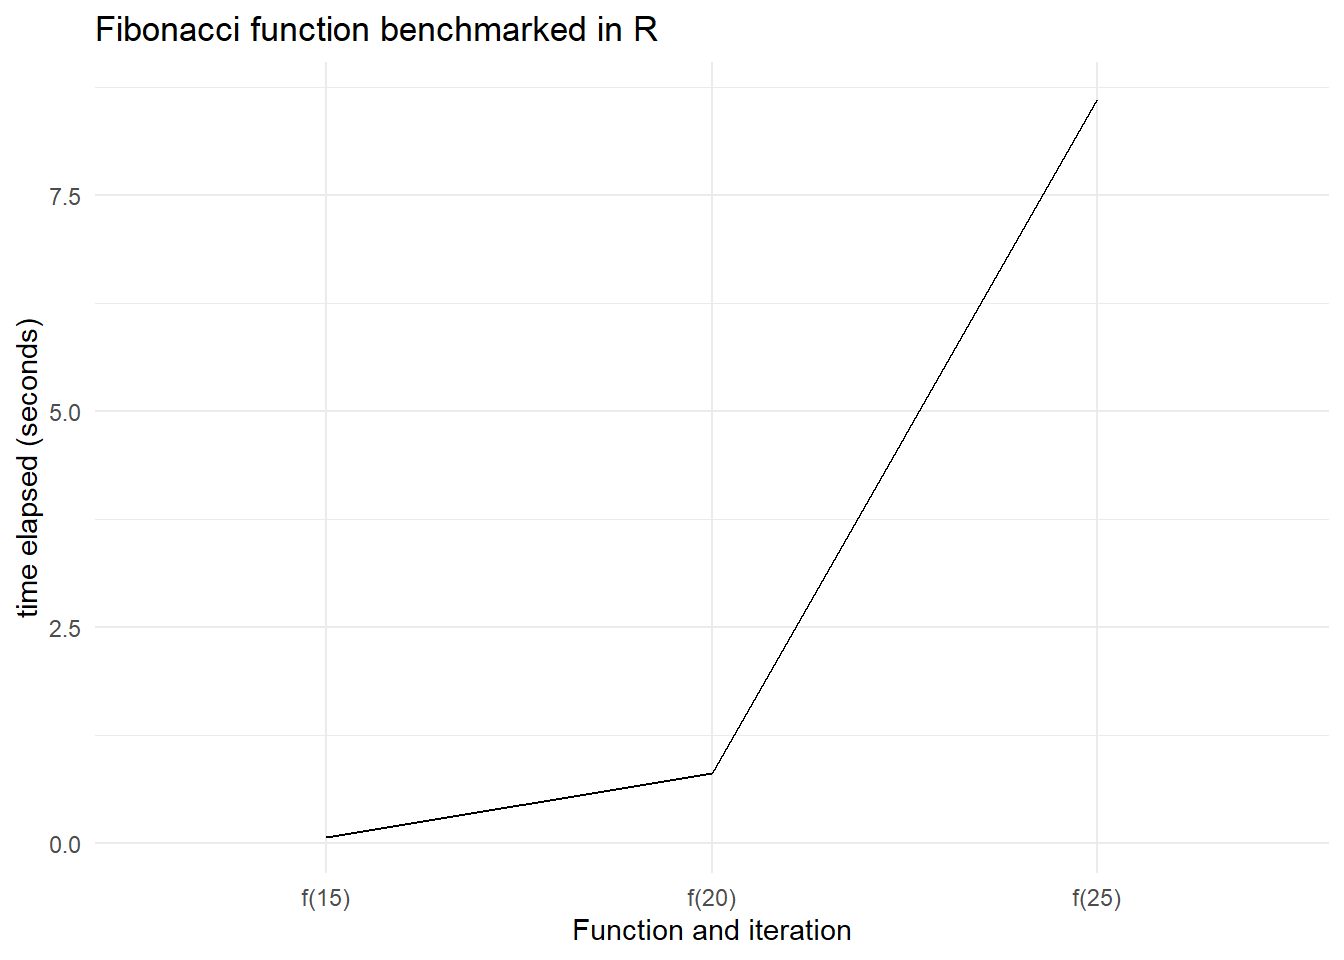
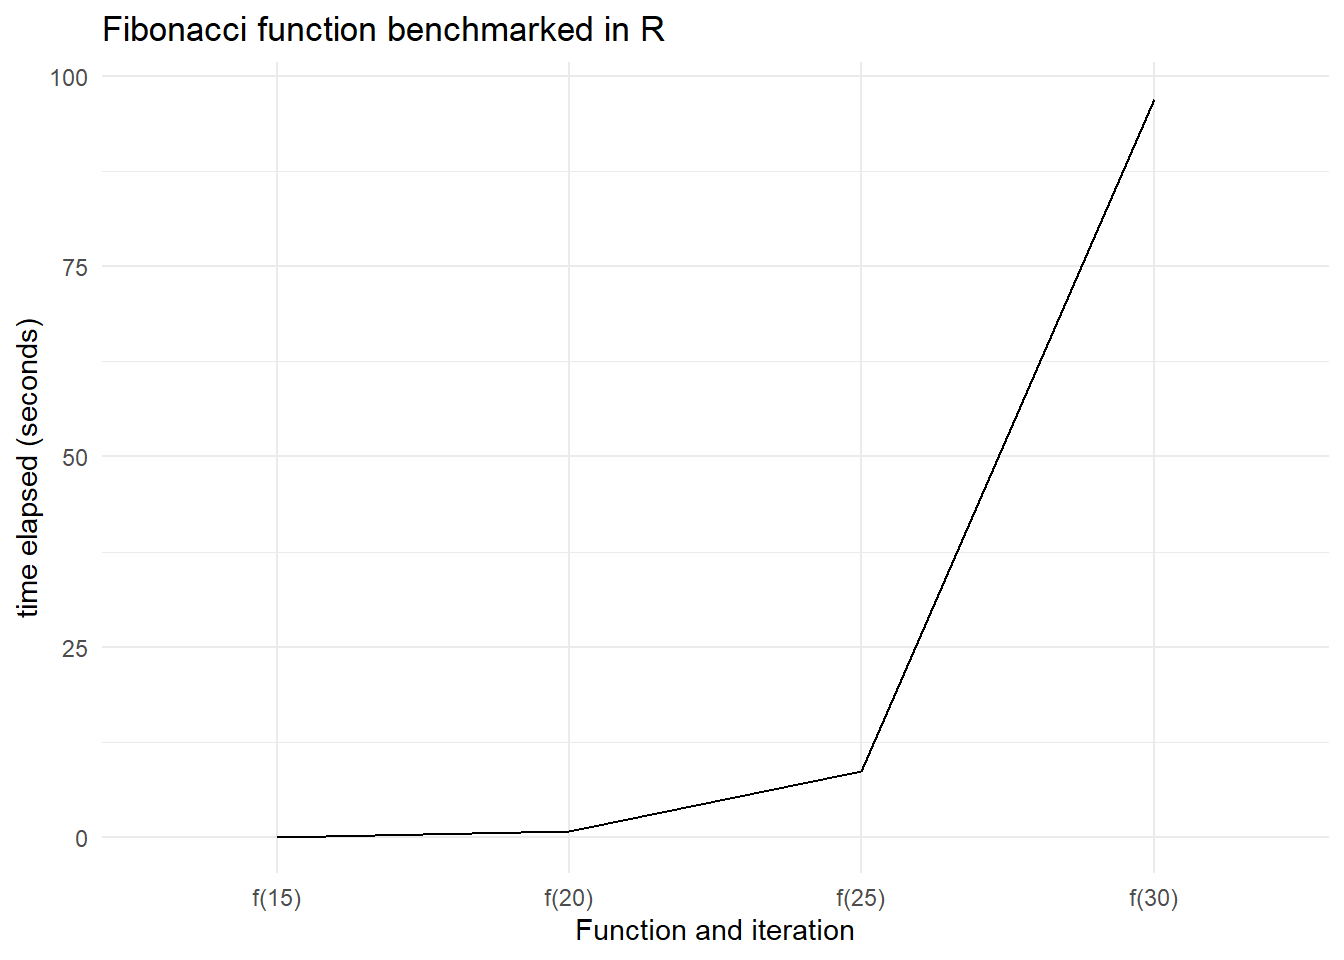
automated commit

diff --git a/public/2021/03/23/rcpp-integration/index.html b/public/2021/03/23/rcpp-integration/index.html
@@ -103,14 +103,15 @@ F_{n-1} + F_{n-2}, &amp; n&gt;2
 
 sapply(1:10, f)</code></pre>
 <pre><code>##  [1]  1  1  2  3  5  8 13 21 34 55</code></pre>
-<pre class="r"><code>Rscores &lt;- benchmark(f(10),f(15), f(20), f(25))[,1:4]
+<pre class="r"><code>Rscores &lt;- benchmark(f(10),f(15), f(20), f(25), f(30))[,1:4]
 
 Rscores</code></pre>
 <pre><code>##    test replications elapsed relative
 ## 1 f(10)          100    0.00       NA
-## 2 f(15)          100    0.07       NA
-## 3 f(20)          100    0.80       NA
-## 4 f(25)          100    8.61       NA</code></pre>
+## 2 f(15)          100    0.08       NA
+## 3 f(20)          100    0.77       NA
+## 4 f(25)          100    8.71       NA
+## 5 f(30)          100   97.00       NA</code></pre>
 <pre class="r"><code>p &lt;- Rscores %&gt;% 
   filter(elapsed&gt;0) %&gt;% 
   ggplot(aes(test,elapsed, group = 1))+
@@ -140,7 +141,7 @@ Cscores</code></pre>
 ## 1 g(10)          100    0.00       NA
 ## 2 g(15)          100    0.00       NA
 ## 3 g(20)          100    0.00       NA
-## 4 g(25)          100    0.01       NA
+## 4 g(25)          100    0.02       NA
 ## 5 g(30)          100    0.22       NA</code></pre>
 <pre class="r"><code>p &lt;- Cscores %&gt;% 
   ggplot(aes(test,elapsed, group = 1))+

diff --git a/content/post/2021-03-23-rcpp-integration/index.html b/content/post/2021-03-23-rcpp-integration/index.html
@@ -37,14 +37,15 @@ F_{n-1} + F_{n-2}, &amp; n&gt;2
 
 sapply(1:10, f)</code></pre>
 <pre><code>##  [1]  1  1  2  3  5  8 13 21 34 55</code></pre>
-<pre class="r"><code>Rscores &lt;- benchmark(f(10),f(15), f(20), f(25))[,1:4]
+<pre class="r"><code>Rscores &lt;- benchmark(f(10),f(15), f(20), f(25), f(30))[,1:4]
 
 Rscores</code></pre>
 <pre><code>##    test replications elapsed relative
 ## 1 f(10)          100    0.00       NA
-## 2 f(15)          100    0.07       NA
-## 3 f(20)          100    0.80       NA
-## 4 f(25)          100    8.61       NA</code></pre>
+## 2 f(15)          100    0.08       NA
+## 3 f(20)          100    0.77       NA
+## 4 f(25)          100    8.71       NA
+## 5 f(30)          100   97.00       NA</code></pre>
 <pre class="r"><code>p &lt;- Rscores %&gt;% 
   filter(elapsed&gt;0) %&gt;% 
   ggplot(aes(test,elapsed, group = 1))+
@@ -74,7 +75,7 @@ Cscores</code></pre>
 ## 1 g(10)          100    0.00       NA
 ## 2 g(15)          100    0.00       NA
 ## 3 g(20)          100    0.00       NA
-## 4 g(25)          100    0.01       NA
+## 4 g(25)          100    0.02       NA
 ## 5 g(30)          100    0.22       NA</code></pre>
 <pre class="r"><code>p &lt;- Cscores %&gt;% 
   ggplot(aes(test,elapsed, group = 1))+
